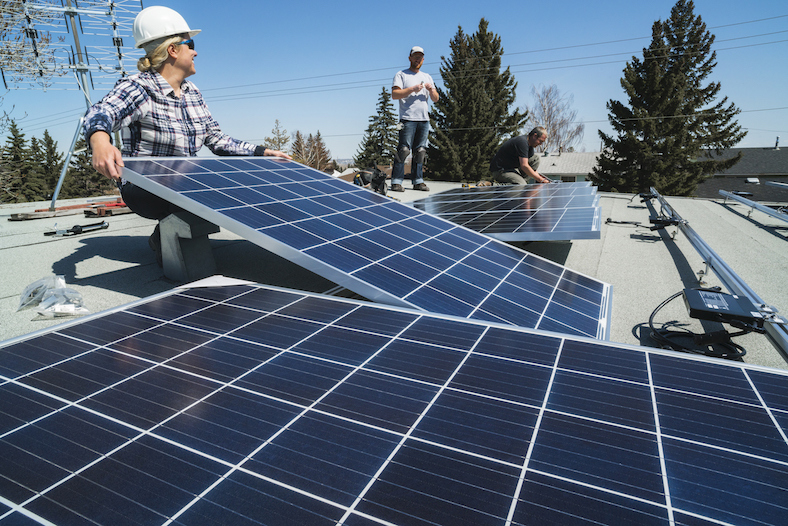
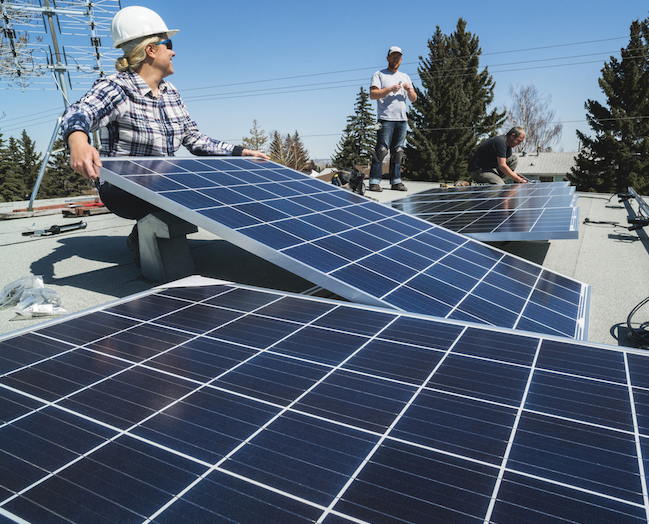
cropped home page images

diff --git a/index.html b/index.html
@@ -20,7 +20,7 @@ Purchase:
 	<meta name="keywords" content=""/>
 	<meta name="author"  content=""/>
 	<meta name="MobileOptimized" content="320" />
-	<title>Solar Supplier - Responsive HTML Template</title>
+	<title>Sunny Money Solar - Sun Bakin', Money Makin'</title>
 	<link rel="stylesheet" href="assets/css/bootstrap.min.css" />
 	<link rel="stylesheet" href="assets/css/fonts.css" />
 	<link rel="stylesheet" href="assets/css/fontawesome.min.css" />
@@ -45,7 +45,6 @@ Purchase:
 						<div class="ss_menu">
 							<ul>
 								<li><a href="about.html">About</a></li>
-								<li><a href="service.html">Services</a></li>
 								<li><a href="contact.html">Contact Us</a></li>
 							</ul>
 							<div class="head_icon">
@@ -70,7 +69,7 @@ Purchase:
 					<div class="ss_banner_left">
 						<h2>CEC Accredited Installers</h2>
 						<h1>Make hay<span> while the sun shines</span></h1>
-						<a href="#" class="white_btn">Get a quote</a>
+						<a href="contact.html" class="white_btn">Get a quote</a>
 					</div>
 				</div>
 				<div class="col-lg-7">
@@ -590,7 +589,7 @@ Purchase:
 								Our safety procedures ensure our installers are trained to create a safe environment on your roof that will not cause risk to your family, your home, or our installer’s.
 						</p>
 						<br>
-						<a href="shop.html" class="ss_btn">Contact us today</a>
+						<a href="contact.html" class="ss_btn">Contact us today</a>
 					</div>
 				</div>
 				<div class="col-lg-6 align-self-center">

diff --git a/about.html b/about.html
@@ -46,7 +46,6 @@ Purchase:
 						<div class="ss_menu">
 							<ul>
 								<li><a href="about.html">About</a></li>
-								<li><a href="service.html">Services</a></li>
 								<li><a href="contact.html">Contact Us</a></li>
 							</ul>
 							<div class="head_icon">

diff --git a/contact.html b/contact.html
@@ -45,7 +45,6 @@ Purchase:
 					<div class="ss_menu">
 						<ul>
 							<li><a href="about.html">About</a></li>
-							<li><a href="service.html">Services</a></li>
 							<li><a href="contact.html">Contact Us</a></li>
 						</ul>
 						<div class="head_icon">
